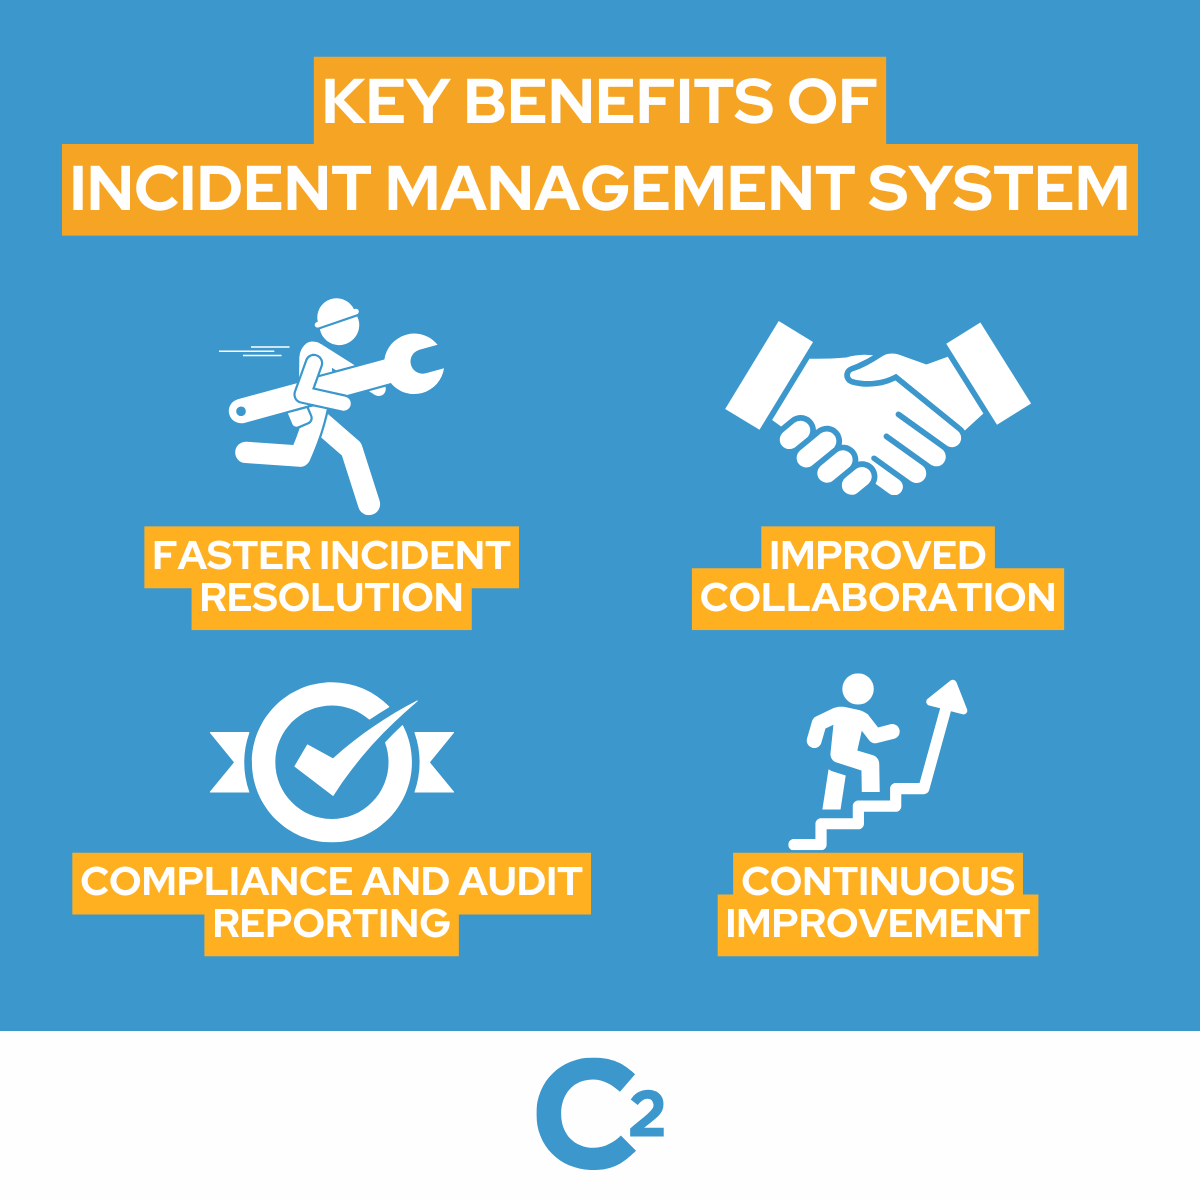
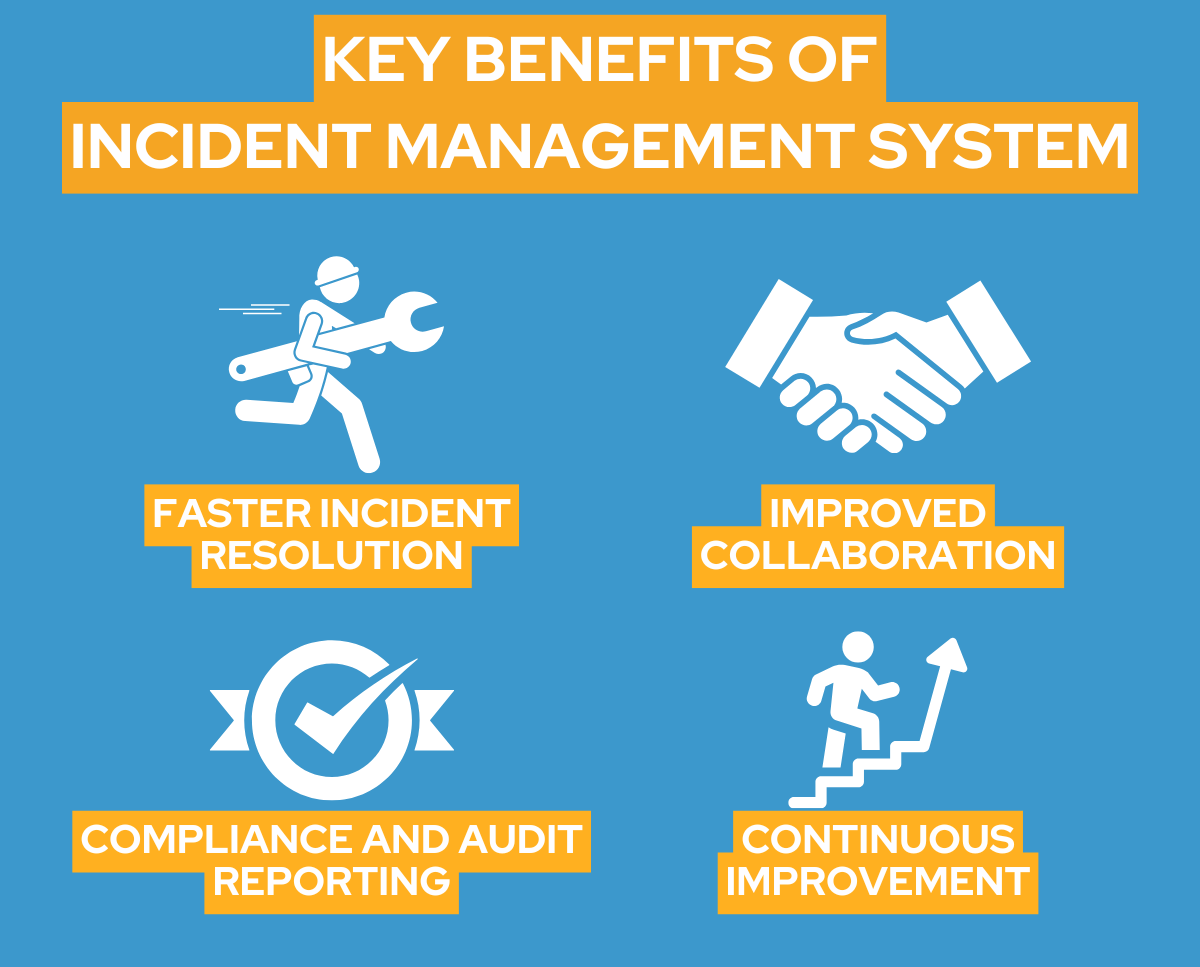
updating paths in  readme

diff --git a/README.md b/README.md
@@ -4,10 +4,7 @@ An AI-powered incident management assistant built with **Snowflake Cortex Analys
 
 The agent understands the incident management data model and answers business questions in natural English. It translates questions into governed SQL, runs the query in Snowflake, and returns clear, data-backed results—without requiring users to write SQL.
 
-<p align="center">
-  <img src="./docs/incident_management_benefits.png" alt="Incident Management Benefits" width="48%" />
-  <img src="./docs/cortex_analyst.png" alt="Cortex Analyst" width="48%" />
-</p>
+![Incident Management Benefits](docs/benefits.png)
 
 ---
 